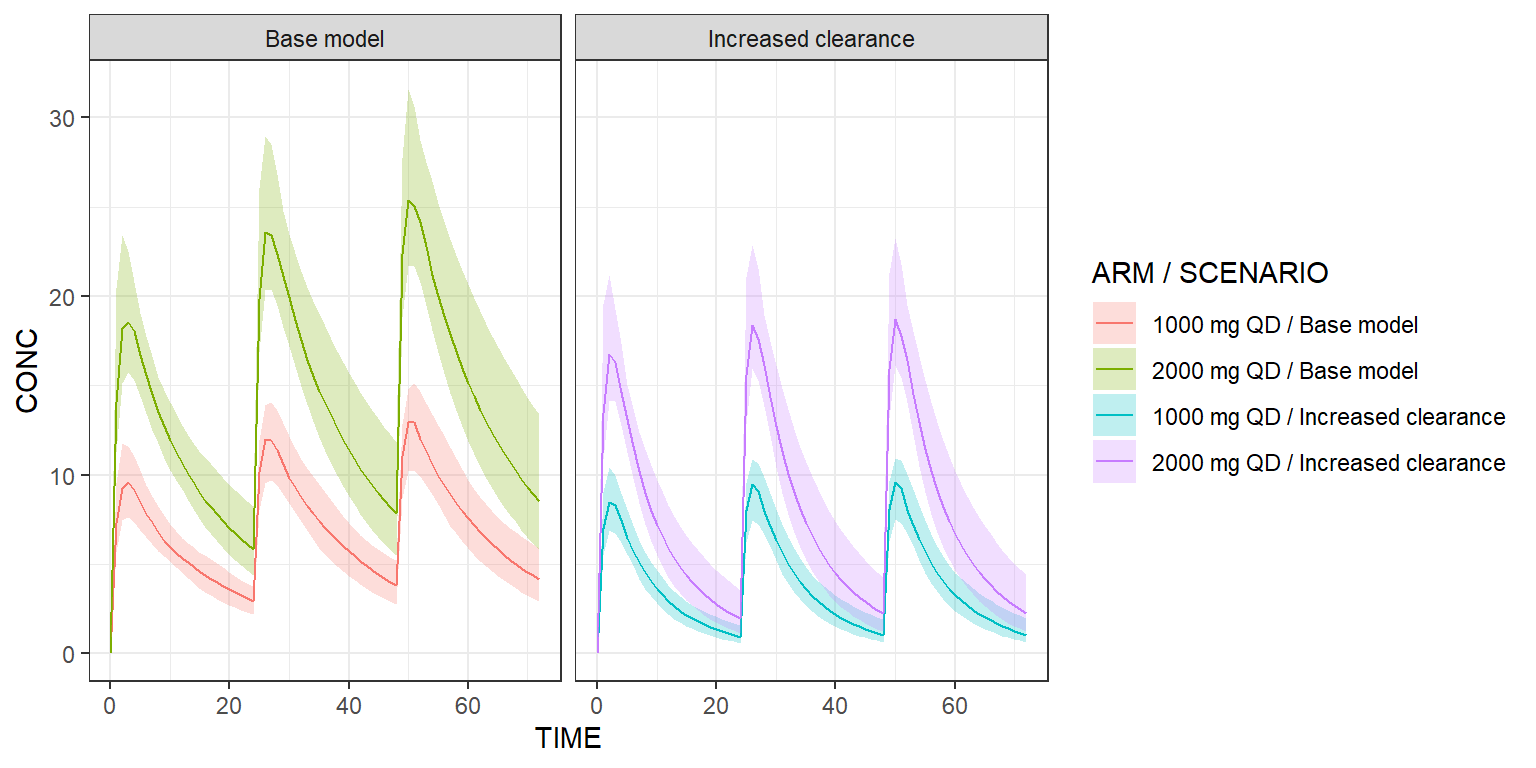
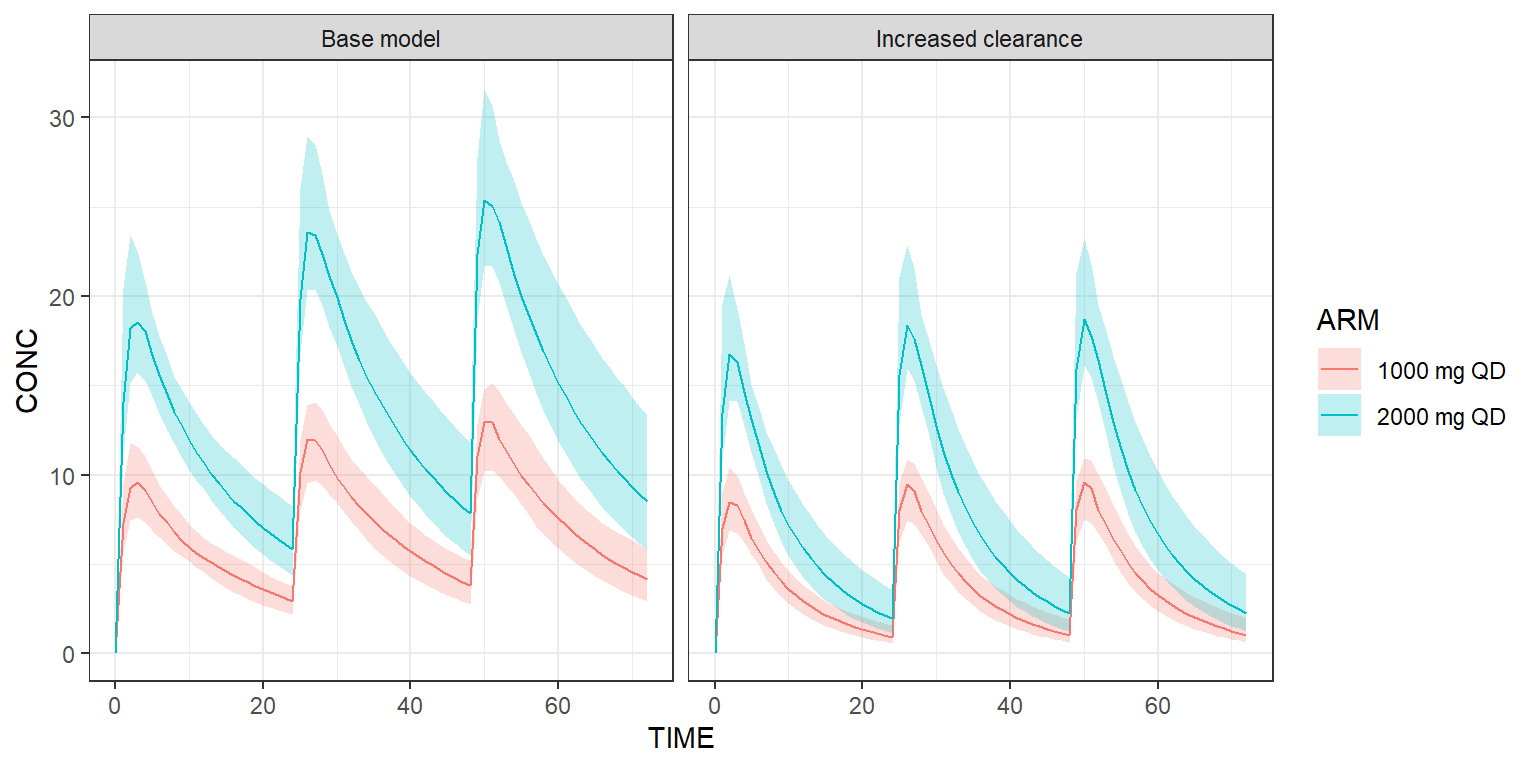
Update website.

diff --git a/get_started.html b/get_started.html
@@ -508,7 +508,7 @@ this model is multiplied by two.</p>
 <span id="cb7-3"><a href="#cb7-3" tabindex="-1"></a>  <span class="fu">add</span>(<span class="fu">Scenario</span>(<span class="st">&quot;Increased clearance&quot;</span>, <span class="at">model=</span><span class="sc">~</span>.x <span class="sc">%&gt;%</span> <span class="fu">replace</span>(<span class="fu">Theta</span>(<span class="at">name=</span><span class="st">&quot;CL&quot;</span>, <span class="at">value=</span><span class="dv">10</span>))))</span>
 <span id="cb7-4"><a href="#cb7-4" tabindex="-1"></a></span>
 <span id="cb7-5"><a href="#cb7-5" tabindex="-1"></a>results <span class="ot">&lt;-</span> model <span class="sc">%&gt;%</span> <span class="fu">simulate</span>(dataset, <span class="at">scenarios=</span>scenarios, <span class="at">seed=</span><span class="dv">1</span>)</span>
-<span id="cb7-6"><a href="#cb7-6" tabindex="-1"></a><span class="fu">shadedPlot</span>(results, <span class="st">&quot;CONC&quot;</span>, <span class="at">colour=</span><span class="fu">c</span>(<span class="st">&quot;ARM&quot;</span>, <span class="st">&quot;SCENARIO&quot;</span>)) <span class="sc">+</span> ggplot2<span class="sc">::</span><span class="fu">facet_wrap</span>(<span class="sc">~</span>SCENARIO)</span></code></pre></div>
+<span id="cb7-6"><a href="#cb7-6" tabindex="-1"></a><span class="fu">shadedPlot</span>(results, <span class="st">&quot;CONC&quot;</span>, <span class="at">colour=</span><span class="fu">c</span>(<span class="st">&quot;ARM&quot;</span>), <span class="at">strat_extra=</span><span class="st">&quot;SCENARIO&quot;</span>) <span class="sc">+</span> ggplot2<span class="sc">::</span><span class="fu">facet_wrap</span>(<span class="sc">~</span>SCENARIO)</span></code></pre></div>
 <p><img src="get_started_files/figure-html/get_started_2arms_scenarios_plot-1.png" width="768" style="display: block; margin: auto;" /></p>
 </div>
 

diff --git a/ecampsis.html b/ecampsis.html
@@ -501,6 +501,22 @@ in Q4 this year. Please stay tuned and meanwhile enjoy the free versions
 of e-Campsis!</p>
 </div>
 </div>
+<div id="videos" class="section level2">
+<h2>Videos</h2>
+<div id="an-introduction-to-e-campsis---the-free-pkpd-simulator"
+class="section level4">
+<h4>An introduction to e-Campsis - The free PK/PD simulator</h4>
+<iframe width="560" height="315" src="https://www.youtube.com/embed/uypETm6aoNc" frameborder="0" allowfullscreen>
+</iframe>
+<p> </p>
+</div>
+<div id="preview-of-e-campsis-pro-and-updates-to-free"
+class="section level4">
+<h4>Preview of e-Campsis Pro and updates to Free</h4>
+<iframe width="560" height="315" src="https://www.youtube.com/embed/M_LLI_poS2E" frameborder="0" allowfullscreen>
+</iframe>
+</div>
+</div>
 
 
 

diff --git a/news.html b/news.html
@@ -349,6 +349,12 @@ div.tocify {
 
 
 <ul>
+<li><p><strong>October 17th, 2023</strong>: New release of e-Campsis
+free / free+ / interim pro! Model parameters can now be annotated (see
+columns label, unit and comment). The model library has been revised and
+fully annotated. Save and load functionalities, as well as the NONMEM
+import are now part of the pro version. Check out this <a
+href="https://www.youtube.com/M_LLI_poS2E">video</a>.</p></li>
 <li><p><strong>August 11th, 2023</strong>: Second release of e-Campsis
 free! Motivated by your positive feedback after the first release, we
 focused our efforts and implemented some powerful new features. Check
